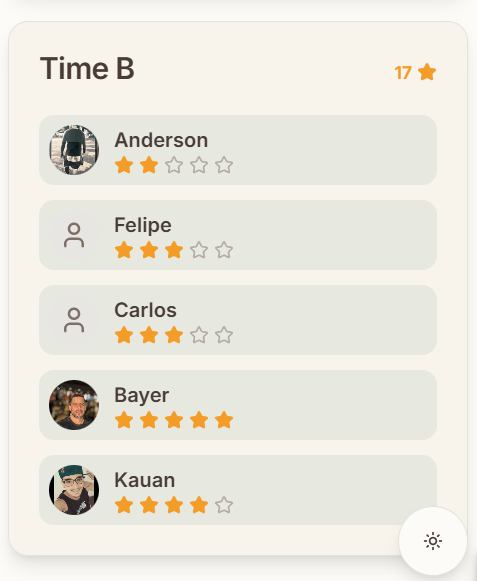
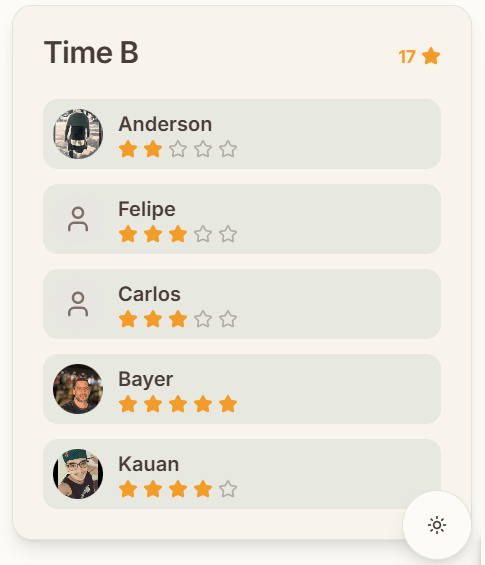
eu alterei a imagem 3sortB só que nao refletiu no site

diff --git a/next.config.ts b/next.config.ts
@@ -28,6 +28,8 @@ const nextConfig: NextConfig = {
         pathname: '/**',
       },
     ],
+    // Forçar a recarga de imagens estáticas no modo de desenvolvimento
+    unoptimized: process.env.NODE_ENV === 'development',
   },
   async redirects() {
     return [
